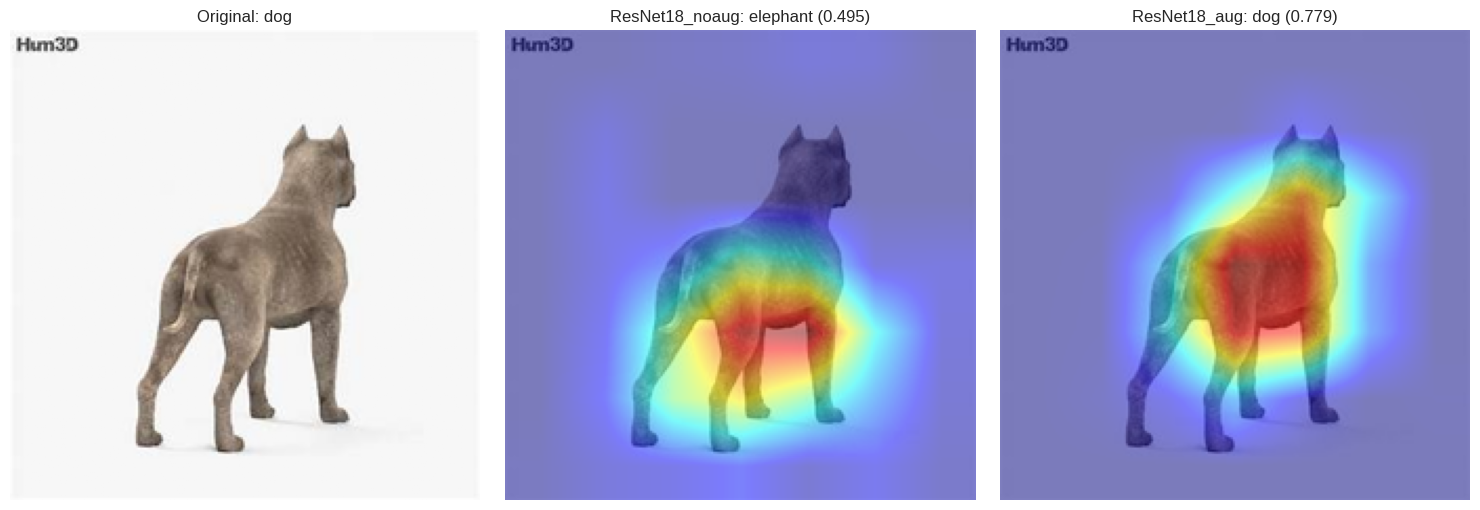
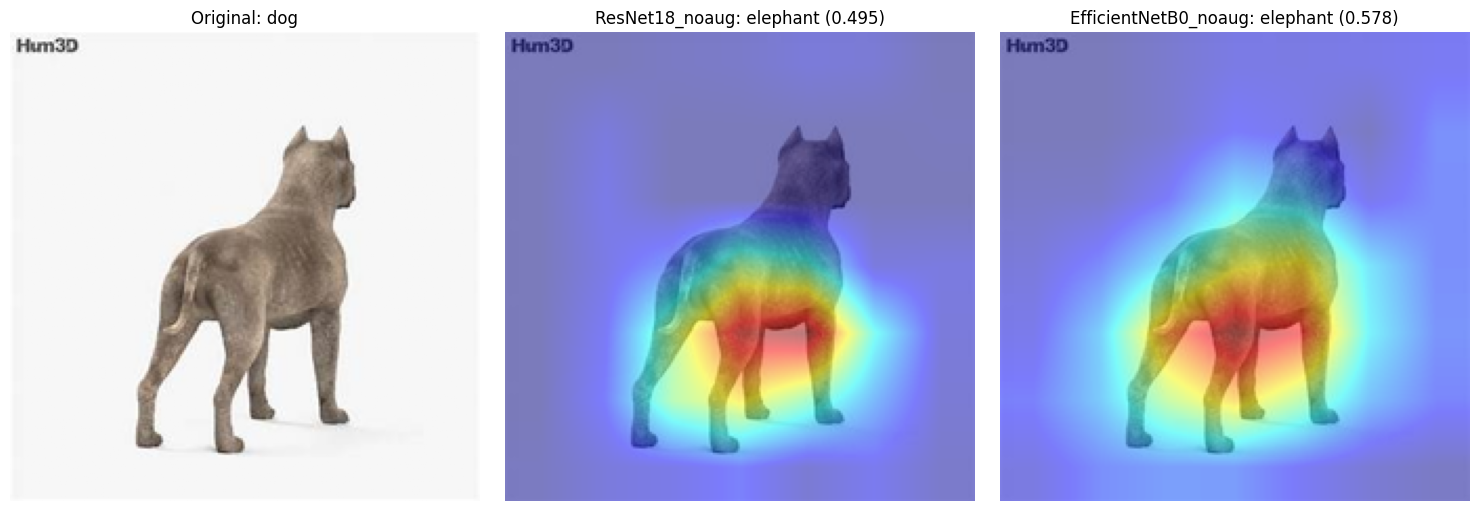
update image page

Changed region(s): [[0.3421, 0.0, 0.9953, 1.0], [0.1244, 0.0, 0.2177, 0.0588], [0.0, 0.0588, 0.0622, 0.1176]]

diff --git a/assignment1_image.html b/assignment1_image.html
@@ -435,7 +435,7 @@
             overflow: hidden;
             display: flex;
             flex-direction: column;
-            min-height: 430px;
+            min-height: 0;
         }
 
         .compare-item .title {
@@ -447,14 +447,19 @@
         }
 
         .compare-item .card-figure {
-            flex: 1;
+            flex: initial;
         }
 
-        .compare-item .card-figure img,
-        .compare-item .img-placeholder {
-            height: 360px;
-            font-size: 0.84rem;
+        .compare-item .card-figure img {
+            height: auto;
             object-fit: contain;
+            background: #fff;
+            border-bottom: 1px solid #e7ede8;
+        }
+
+        .compare-item .img-placeholder {
+            height: 220px;
+            font-size: 0.84rem;
             background: #fff;
             border-bottom: 1px solid #e7ede8;
         }
@@ -1117,7 +1122,7 @@
         <section class="section-card reveal" id="experiments">
             <div class="section-head">
                 <span class="idx">08</span>
-                <h2>Kết quả thực nghiệm: trực quan hóa bằng GradCAM/EigenCAM</h2>
+                <h2>Kết quả thực nghiệm: Trực quan hóa bằng GradCAM/EigenCAM</h2>
             </div>
             <p>
                 Trình bày các mẫu model dự đoán và phân tích, trực quan hóa bằng GradCAM/EigenCAM để hiểu vùng ảnh nào mô hình tập trung khi dự đoán. So sánh giữa 4 backbone để thấy sự khác biệt trong cách học đặc trưng.
@@ -1128,10 +1133,20 @@
                 <div class="compare-item">
                     <div class="title">CNN: ResNet18_noaug vs EfficientNetB0_noaug - GradCAM</div>
                     <figure class="card-figure auto-map" data-map="cam-cnn1"><div class="img-placeholder">Overlay placeholder</div></figure>
+                </iv>
+                <div class="compare-item">
+                    <div class="title">Transformer: ViT_B16_noaug vs SwinT_noaug - EigenCAM</div>
+                    <figure class="card-figure auto-map" data-map="cam-transformer1"><div class="img-placeholder">Overlay placeholder</div></figure>
+                </div>
+            </div>
+            <div class="compare-row">
+                <div class="compare-item">
+                    <div class="title">CNN: ResNet18_aug vs EfficientNetB0_aug - GradCAM</div>
+                    <figure class="card-figure auto-map" data-map="cam-cnn6"><div class="img-placeholder">Overlay placeholder</div></figure>
                 </div>
                 <div class="compare-item">
-                    <div class="title">Transformer: SwinT_noaug vs ViT_B16_noaug - EigenCAM</div>
-                    <figure class="card-figure auto-map" data-map="cam-transformer1"><div class="img-placeholder">Overlay placeholder</div></figure>
+                    <div class="title">Transformer: ViT_B16_aug vs SwinT_aug - EigenCAM</div>
+                    <figure class="card-figure auto-map" data-map="cam-transformer6"><div class="img-placeholder">Overlay placeholder</div></figure>
                 </div>
             </div>
 
@@ -1142,7 +1157,7 @@
                     <figure class="card-figure auto-map" data-map="cam-cnn2"><div class="img-placeholder">Overlay placeholder</div></figure>
                 </div>
                 <div class="compare-item">
-                    <div class="title">Transformer: SwinT_noaug vs ViT_B16_noaug - EigenCAM</div>
+                    <div class="title">Transformer: ViT_B16_noaug vs SwinT_noaug - EigenCAM</div>
                     <figure class="card-figure auto-map" data-map="cam-transformer2"><div class="img-placeholder">Overlay placeholder</div></figure>
                 </div>
             </div>
